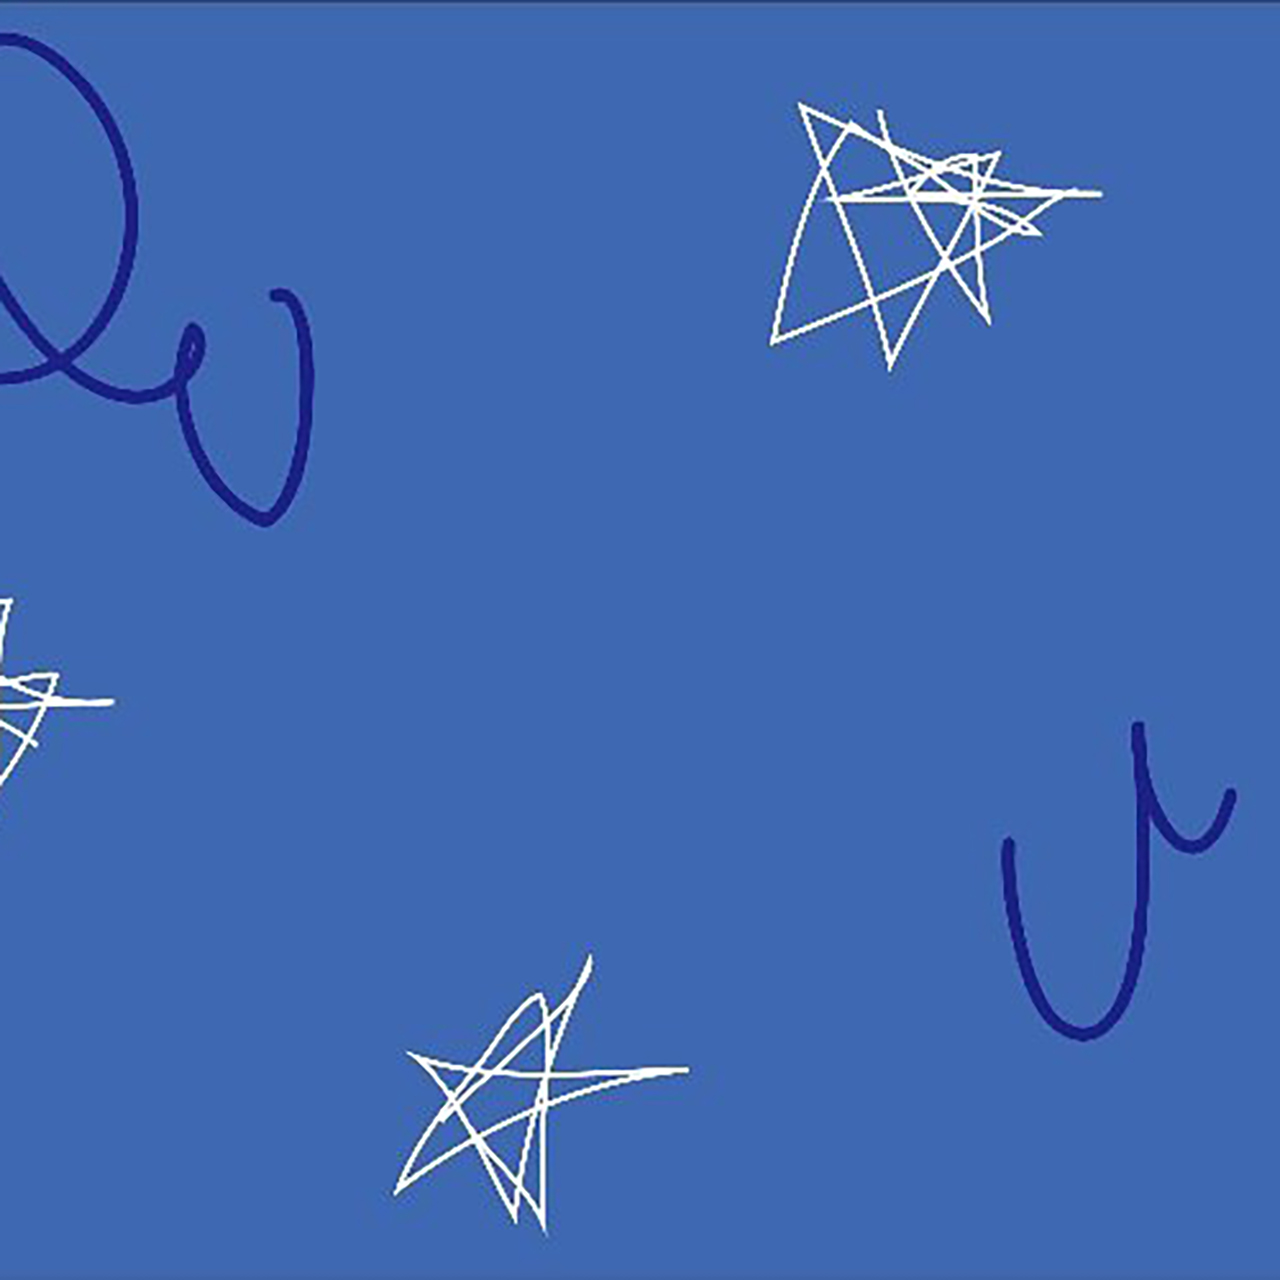
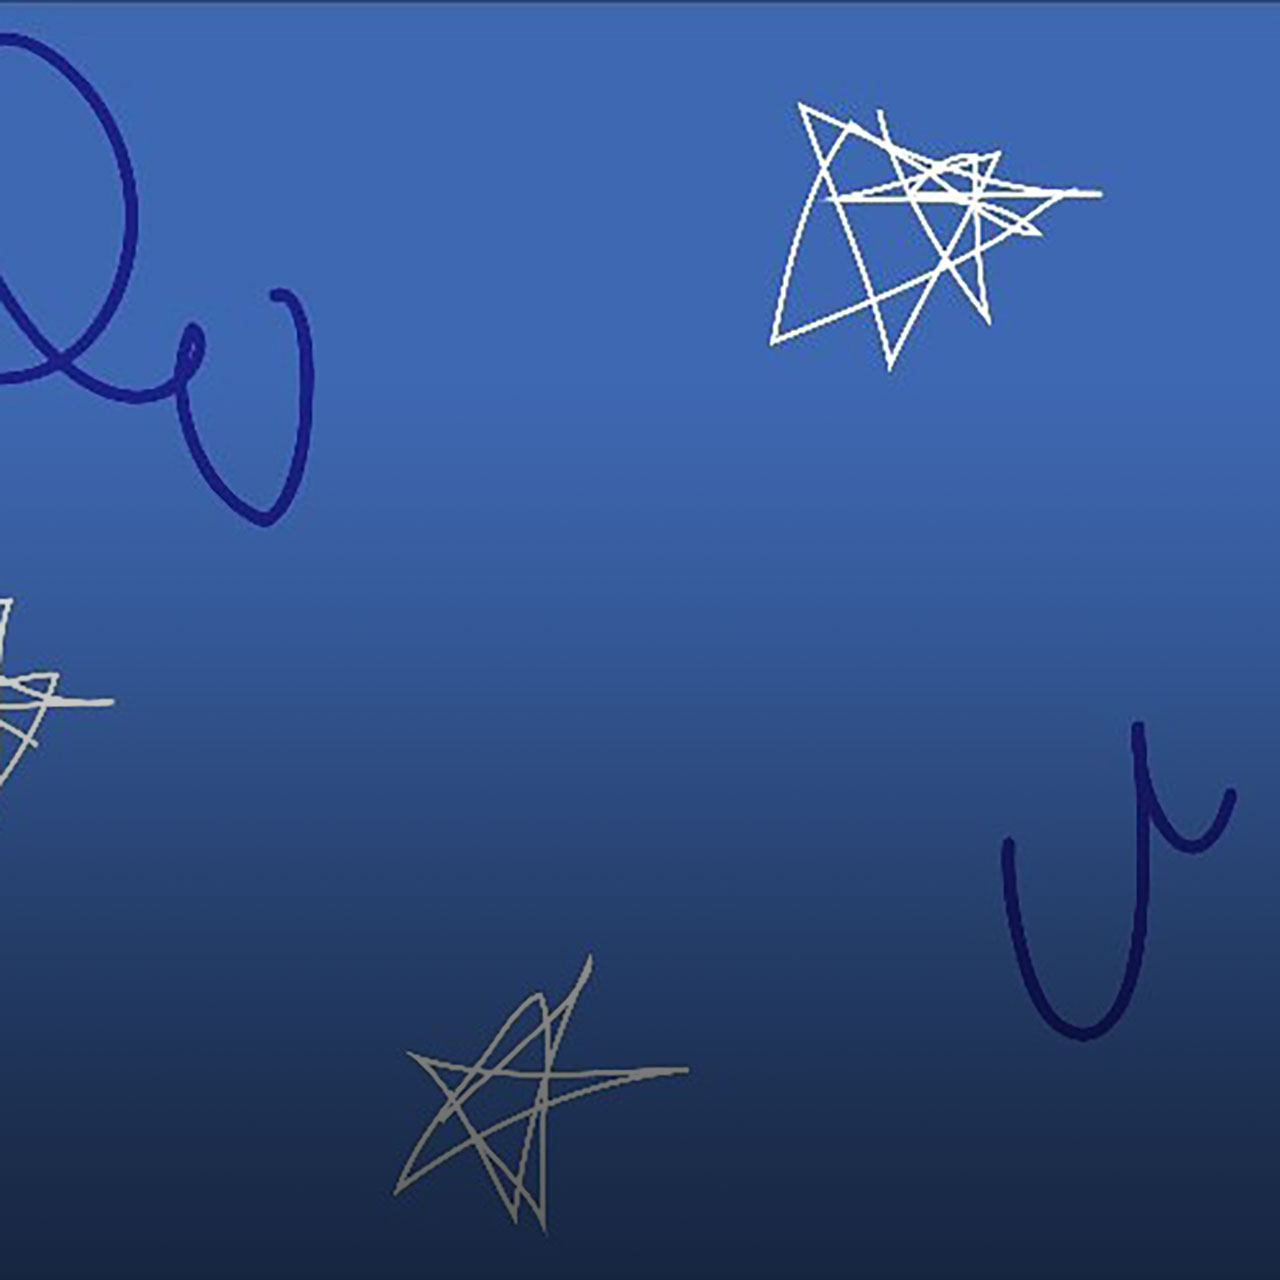
Updated bg and contetns

diff --git a/index.html b/index.html
@@ -26,7 +26,7 @@
 				<!-- One -->
 					<section id="one">
 						<header class="major">
-							<h2>Introduction</h2>
+							<h2>About</h2>
 						</header>
 						<p>初めまして! こんにちは。オールラウンダーにものづくりしています。よろしくお願いします。<br />
 							[Programming Skills]: C/C++, Python, JavaScript, Node.js, TypeScript, Shell Script, Java<br />
@@ -39,9 +39,9 @@
 						<h2>Products</h2>
 						<div class="row">
 							<article class="6u 12u$(xsmall) work-item">
-								<a href="http://makezine.jp/event/makers2016/makebox/" class="image fit thumb"><img src="images/fulls/01.png" alt="" /></a>
+								<a href="https://github.com/naoki-sawada/homebot" class="image fit thumb"><img src="images/fulls/01.png" alt="" /></a>
 								<h3>Home Bot</h3>
-								<p>SlackやSiriから家電を操作できるbotを作りました。<a href="http://makezine.jp/event/mft2016/">Maker Faire 2016</a>にて出展。</p>
+								<p>SlackやSiriから家電を操作できるbotを作りました。<a href="http://makezine.jp/event/makers2016/makebox/">Maker Faire 2016</a>にて出展。</p>
 							</article>
 							<article class="6u$ 12u$(xsmall) work-item">
 								<a href="https://l-chika-bot.azurewebsites.net/#/" class="image fit thumb"><img src="images/fulls/02.png" alt="" /></a>
